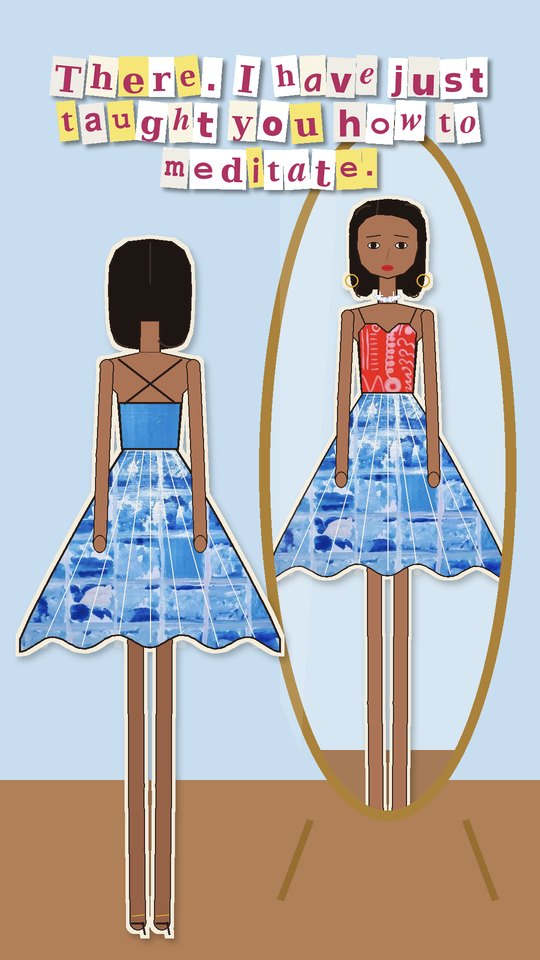
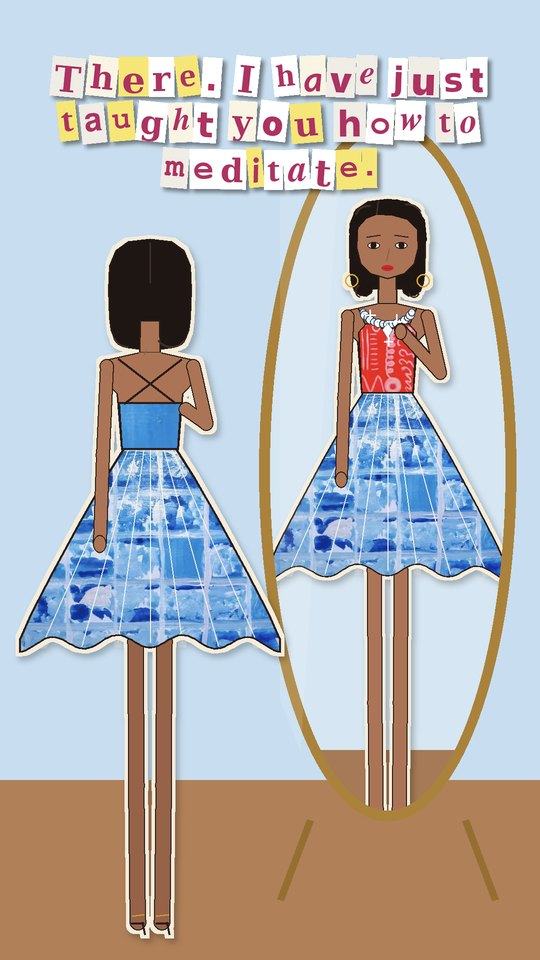
Reel 3: visible diamond necklace, hand-at-necklace pose in mirror and from behind
Claude-Session: https://claude.ai/code/session_019PesBt99WngamYtmRE4Gta

Changed region(s): [[0.6519, 0.2812, 0.8593, 0.5312], [0.3259, 0.375, 0.4148, 0.5938]]

diff --git a/reel3/girl.py b/reel3/girl.py
@@ -105,7 +105,7 @@ ARMS = {
     "crayon":   ([(-60, 176), (-82, 290), (-110, 392)], [(60, 176), (88, 290), (40, 396)]),
     "stitch":   ([(-60, 176), (-86, 286), (-32, 336)], [(60, 176), (86, 286), (30, 330)]),
     "pay":      ([(-60, 176), (-66, 300), (-70, 420)], [(60, 176), (98, 262), (176, 286)]),
-    "necklace_back": ([(-60, 176), (-66, 300), (-70, 420)], [(60, 176), (74, 262)]),   # hand hidden in front
+    "necklace_back": ([(-60, 176), (-66, 300), (-70, 420)], [(60, 176), (78, 256), (50, 236)]),   # hand hidden in front
 }
 
 
@@ -235,13 +235,17 @@ def draw(layer, cx, top, height, view="front", eyes="closed", necklace=None, ear
             d.line(f.pl([(sx * 34, 188), (sx * 44, 164)]), fill=LINE, width=f.w(2.5))  # thin straps
         if necklace == "gold":
             d.line(f.pl([(-24, 160), (0, 182), (24, 160)]), fill=GOLD, width=f.w(2))
-        elif necklace == "diamond":   # diamond choker, snug at the base of the neck
-            for i, x in enumerate(np.linspace(-17, 17, 9)):
-                y = 146 + 5 * (1 - (x / 17) ** 2); r = 3.6 if i % 2 else 3.0
-                d.ellipse([*f.p(x - r, y - r), *f.p(x + r, y + r)], fill=(242, 247, 255), outline=(150, 175, 210))
-            for (sx_, sy_, rr) in ((9, 146, 7), (-12, 144, 5)):
-                d.line(f.pl([(sx_ - rr, sy_), (sx_ + rr, sy_)]), fill=(255, 255, 255), width=f.w(1.5))
-                d.line(f.pl([(sx_, sy_ - rr), (sx_, sy_ + rr)]), fill=(255, 255, 255), width=f.w(1.5))
+        elif necklace == "diamond":   # sits low on the collarbone, bright against her skin
+            pts = [(-38 * np.cos(np.pi * t), 164 + 24 * np.sin(np.pi * t)) for t in np.linspace(0.08, 0.92, 15)]
+            for i, (x, y) in enumerate(pts):
+                r = 5.0 if i % 2 else 4.0
+                d.ellipse([*f.p(x - r - 1.5, y - r - 1.5), *f.p(x + r + 1.5, y + r + 1.5)], fill=(60, 70, 90))
+                d.ellipse([*f.p(x - r, y - r), *f.p(x + r, y + r)], fill=(250, 252, 255))
+                d.ellipse([*f.p(x - r * 0.5, y - r * 0.6), *f.p(x, y - r * 0.1)], fill=(190, 215, 245))
+            d.polygon(f.pl([(0, 186), (8, 196), (0, 210), (-8, 196)]), fill=(250, 252, 255), outline=(60, 70, 90))
+            for (sx_, sy_, rr) in ((14, 184, 11), (-26, 174, 8), (2, 214, 7)):
+                d.line(f.pl([(sx_ - rr, sy_), (sx_ + rr, sy_)]), fill=(255, 255, 255), width=f.w(2))
+                d.line(f.pl([(sx_, sy_ - rr), (sx_, sy_ + rr)]), fill=(255, 255, 255), width=f.w(2))
         # face
         face = [(-46, 36), (-47, 72), (-41, 96), (-25, 112), (0, 120), (25, 112), (41, 96), (47, 72), (46, 36), (28, 20), (0, 16), (-28, 20)]
         d.polygon(f.pl(face), fill=SKIN, outline=LINE, width=f.w(2))
@@ -288,7 +292,7 @@ def draw(layer, cx, top, height, view="front", eyes="closed", necklace=None, ear
         else:
             _limb(d, pts, f.w(17), SKIN, f)
         h = pts[-1]
-        if len(pts) == 2:
+        if len(pts) == 2 or arms == "necklace_back" and sx == 1:
             continue
         if coat:
             _fur(d, [h, (h[0] + 1, h[1])], f.w(13), seed=3 + sx)

diff --git a/reel3/board.py b/reel3/board.py
@@ -458,14 +458,14 @@ def mirror():
     d.ellipse([m[0] - 22, m[1] - 22, m[2] + 22, m[3] + 22], fill=(170, 130, 60))
     refl = Image.new("RGB", (FW, FH), (214, 230, 242)); rd = ImageDraw.Draw(refl)
     rd.rectangle([0, 1500, FW, FH], fill=(166, 122, 86))
-    rl = refl.convert("RGBA"); G2.draw(rl, 775, 400, 1290, arms="down", necklace="diamond", eyes="open"); refl = rl.convert("RGB")
+    rl = refl.convert("RGBA"); G2.draw(rl, 775, 400, 1290, arms="necklace", necklace="diamond", eyes="open"); refl = rl.convert("RGB")
     mk = Image.new("L", (FW, FH), 0); ImageDraw.Draw(mk).ellipse(m, fill=255)
     img.paste(refl, (0, 0), mk)
     shade(img, [(560, 300), (680, 300), (600, 1500), (560, 1400)], (255, 255, 255), 0.12)
     d = ImageDraw.Draw(img)
     d.line([620, 1640, 560, 1800], fill=(150, 110, 50), width=14); d.line([930, 1640, 990, 1800], fill=(150, 110, 50), width=14)
     # her, seen from behind, mid-turn: the back top is the plain blue water
-    lay = img.convert("RGBA"); G2.draw(lay, 300, 480, 1400, view="back", arms="down"); return lay.convert("RGB")
+    lay = img.convert("RGBA"); G2.draw(lay, 300, 480, 1400, view="back", arms="necklace_back"); return lay.convert("RGB")
 
 
 def jeweller():
